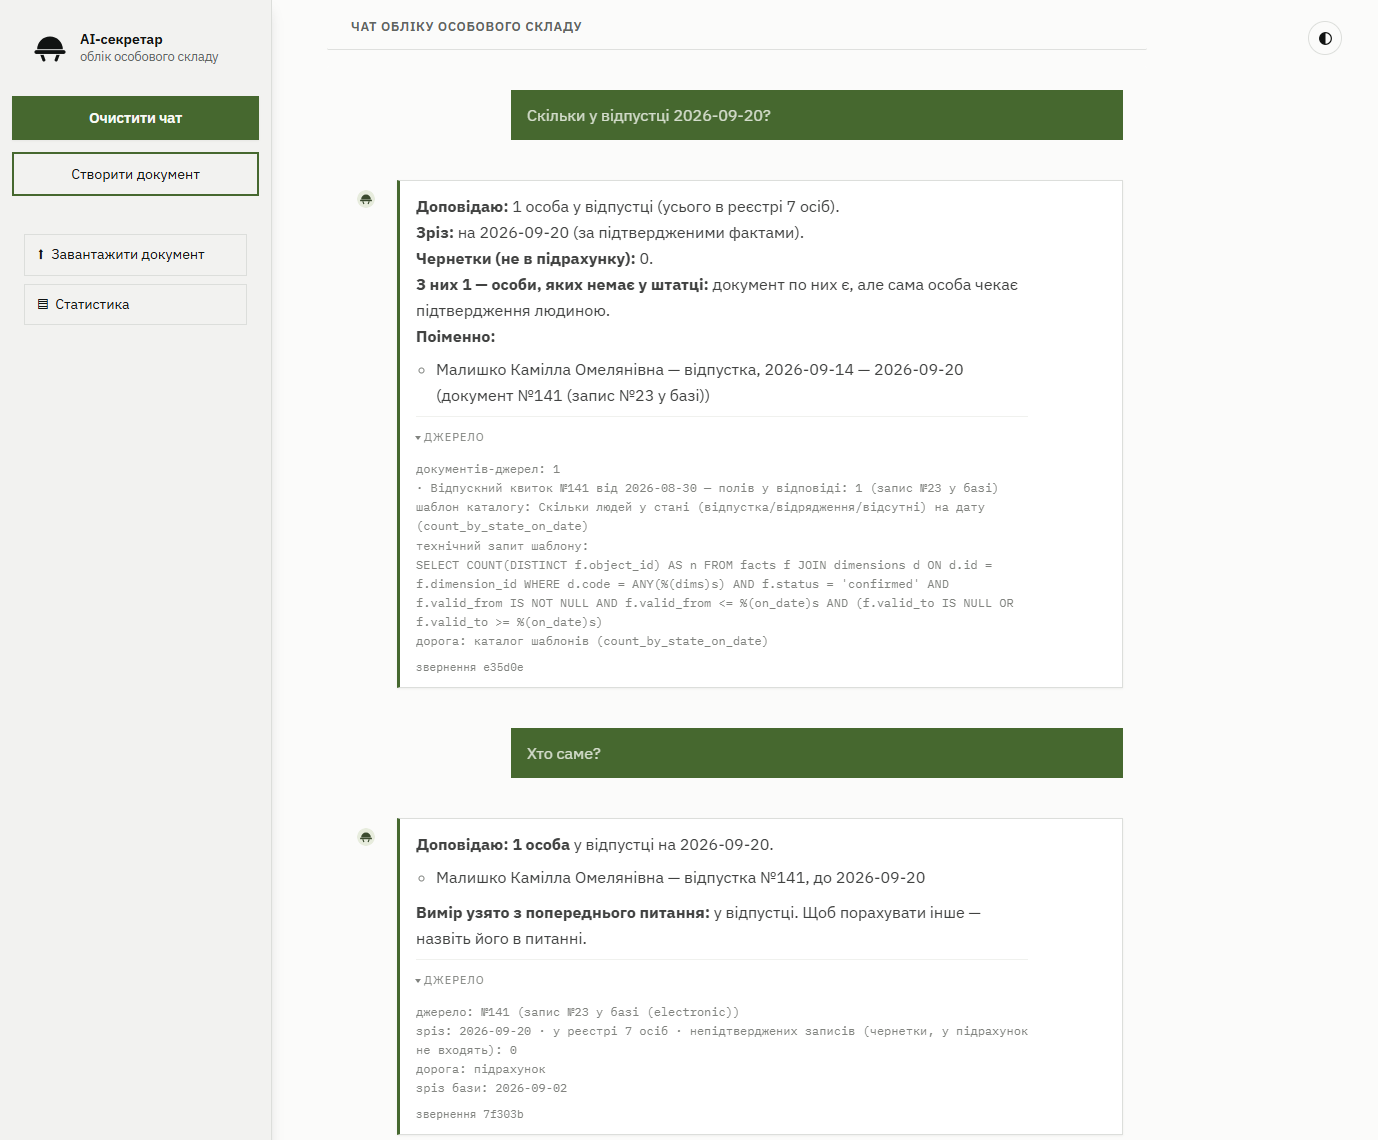
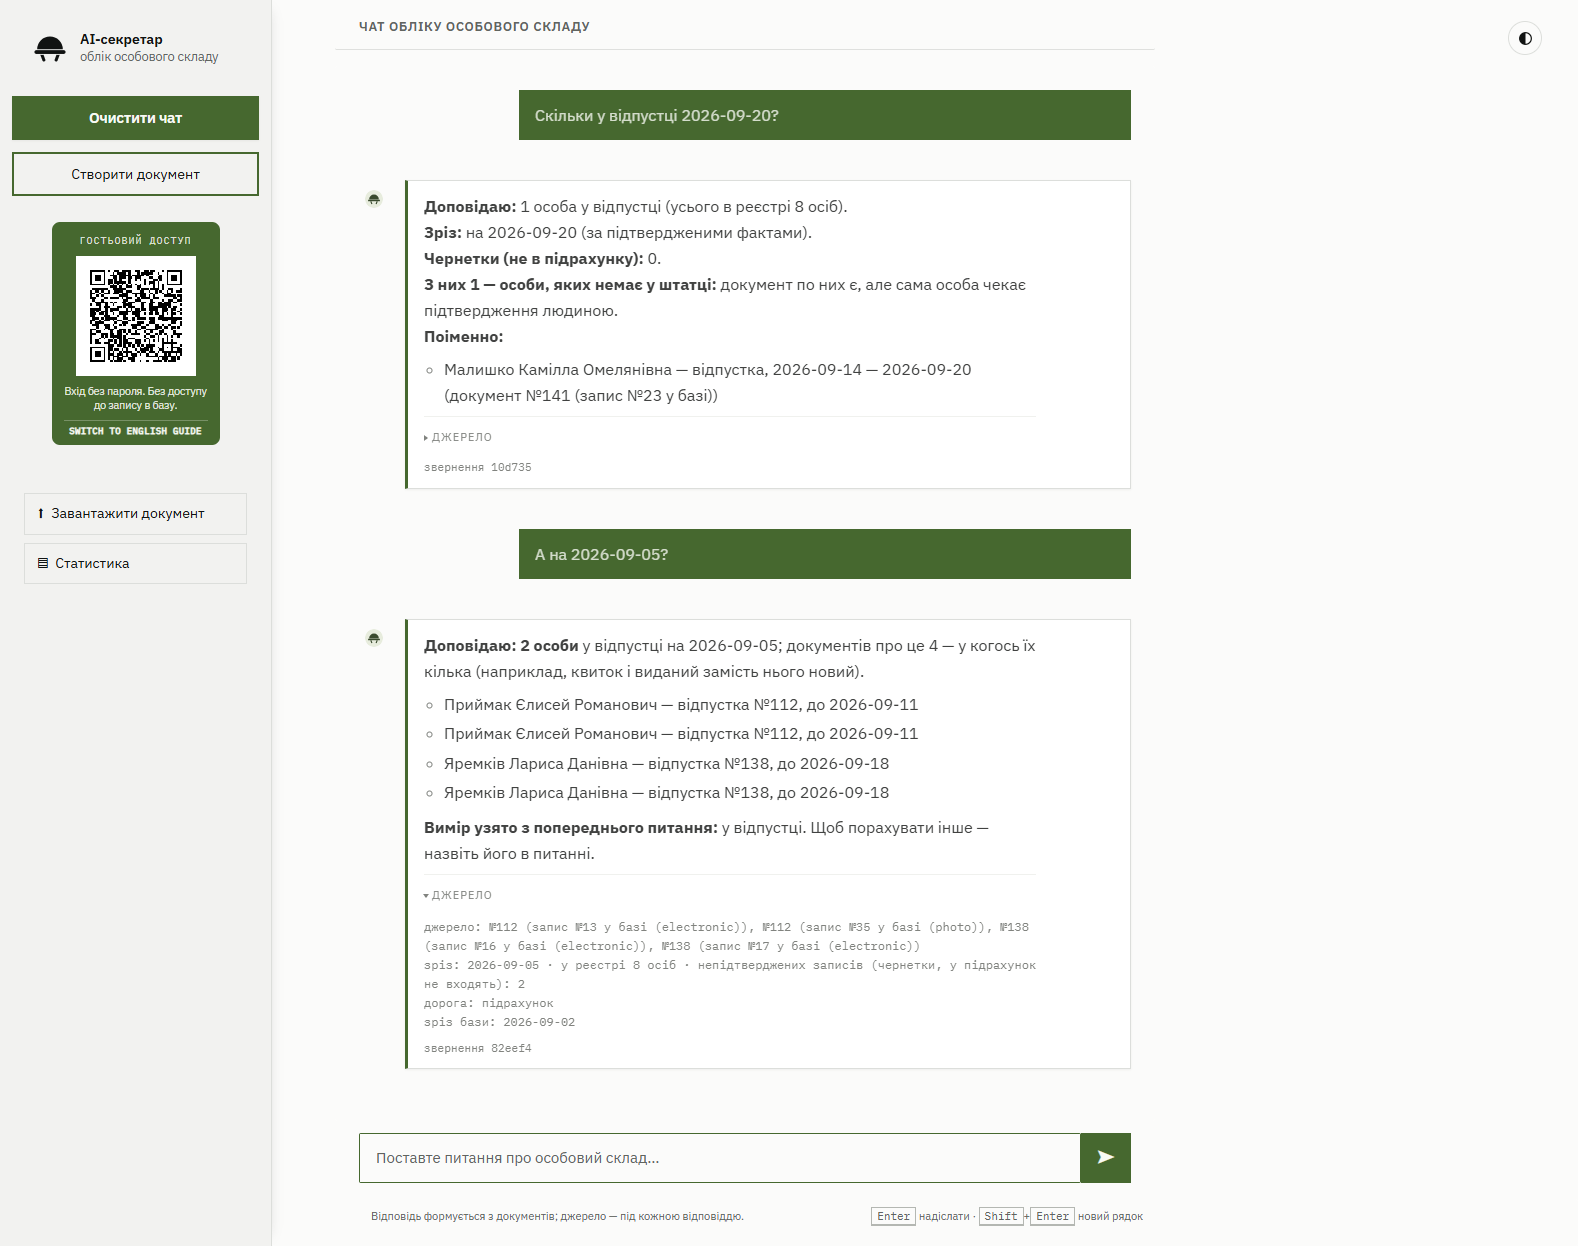
Знімки за зауваженнями: настільна версія з QR, один знімок завантаження, наступний хід із сенсом
Три зауваження Ані, усі виконані:

  усі знімки -- настільна версія, і в бічній панелі видно QR гостьового
  доступу. Його не було, бо блок з'являється лише при заданому гостьовому
  токені; локально стенд піднято з тимчасовим значенням APP_GUEST_TOKEN --
  воно нічого не відкриває, апка слухає 127.0.0.1;
  із двох знімків завантаження лишився один -- фото телефоном, як найгірший
  вхід;
  наступний хід у чаті тепер має сенс: перша відповідь уже називає особу
  поіменно, тому «Хто саме?» був порожнім питанням. Тепер «А на 2026-09-05?»
  -- той самий вимір, інший зріз: 2 особи з 4 документів, і видно, що той
  самий квиток у docx і на фото рахується як один. Джерело розкрите лише в
  нижньому повідомленні.

По дорозі -- ще одна знахідка про наступні ходи, записана в open-work: «Де
саме?» після поіменної відповіді дає не відповідь і не відмову, а уточнення
дати. Дві причини: у каталозі немає шаблона «куди звільнена особа», хоча поле
destination_place у фактах є; і наступний хід не успадкував явну дату з
попереднього питання. Та сама макро-тема, що й «завтра» -- лагодити разом.

І про прилад: мій критерій готовності відповіді («текст не змінюється») двічі
спрацював на індикаторі прогресу й зловив модель посеред думки. Замінено на
«в останньому повідомленні є підпис звернення і немає індикатора».

diff --git a/README.md b/README.md
@@ -40,23 +40,20 @@
 **Відео (27 с):** [`docs/media/ai-secretary-demo-27s.mov`](docs/media/ai-secretary-demo-27s.mov)
 — завантаження документа й питання в чат наскрізь.
 
-**Завантаження документа → що витягли.** Поля з джерелом, стан кожного факту,
-і окремо — прогалини. У базу запис іде лише після підтвердження людиною.
+**Завантаження документа → що витягли.** Тут — найгірший вхід: фото бланка
+телефоном. Поля з джерелом, стан кожного факту, окремо прогалини; у базу запис
+іде лише після підтвердження людиною. OCR на процесорі — 4 хв 36 с на цій
+машині, на карті сервера було ~50 с.
 
-![Завантаження документа: витягнуті поля, стан і прогалини](docs/media/upload-fields.png)
-
-**Те саме з фотографією телефоном.** Найгірший вхід: знімок бланка, OCR на
-процесорі — 4 хв 36 с на цій машині (на карті — десятки секунд). Поля ті самі,
-кожне підтверджене.
-
-![Фото документа телефоном: витягнуті поля](docs/media/upload-photo.png)
+![Фото документа телефоном: витягнуті поля, стан і прогалини](docs/media/upload-photo.png)
 
 **Чат: число, поіменно, наступний хід.** Відповідь несе зріз, кількість
-чернеток (у підрахунок не входять), примітку про особу поза штаткою і
-розкривне джерело — документ, шаблон і сам запит. «Хто саме?» успадковує вимір
-попереднього питання і каже про це.
+чернеток (у підрахунок не входять) і примітку про особу поза штаткою. «А на
+2026-09-05?» успадковує вимір попереднього питання: дві особи з чотирьох
+документів — той самий квиток у docx і на фото рахується як один. Під
+відповіддю розкрите джерело: документи, зріз, дорога.
 
-![Чат: скільки у відпустці, хто саме, джерело](docs/media/chat-count-and-followup.png)
+![Чат: скільки у відпустці, інша дата, джерело](docs/media/chat-count-and-followup.png)
 
 **Відмова краща за вигадку.** Питання поза доменом отримує відмову з
 поясненням, а не найближчу цифру.
